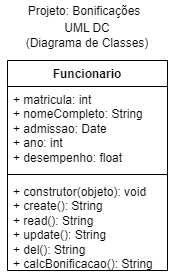
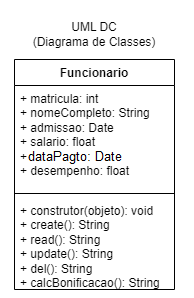
aula13

Changed region(s): [[0.0286, 0.0, 0.9714, 0.9855]]

diff --git a/2des/01-pwbe/aula13/README.md b/2des/01-pwbe/aula13/README.md
@@ -18,7 +18,7 @@
 |-|
 |Você foi contratado como Programador Back-End, por isso deve desenvolver a API com as funcionalidades documentadas, utilize os dados a seguir para testar sua aplicação através da ferramenta **Insomnia**|
 
-|Nome|Nascimento|peso|Altura|
+|Nome|Nascimento|Peso|Altura|
 |-|-|-|-|
 |Jair Rodrigues|1981-01-03|85.5|1.75|
 |Marieta Severo|1995-03-04|44.3|1.55|
@@ -28,4 +28,39 @@
 
 |Observações:|
 |-|
-|Dados calculados nem sempre precisam ser armazenados em bancos de dados:<br>- Podem ser calculados através de **visões**(Views) no SGBD e apenas exibidos os resultados,<br>- Podem ser calculados na API back-end através de métodos/funções:<br>&emsp;- Podem ser calculados quando os dados são listados um a um<br>&emsp;- Podem ser calculados quando os dados são todos de uma vez<br>&emsp;- Podem ser calculados quando os dados são cadastrados e armazenados no banco de dados<br>- Para cada problema devemos avaliar qual a melhor alternativa quanto a processamento e armazenamento|
+|Dados calculados nem sempre precisam ser armazenados em bancos de dados:<br>- Podem ser calculados através de **visões**(Views) no SGBD e apenas exibidos os resultados,<br>- Podem ser calculados na API back-end através de métodos/funções:<br>&emsp;- Podem ser calculados quando os dados são listados um a um<br>&emsp;- Podem ser calculados quando os dados são todos de uma vez<br>&emsp;- Podem ser calculados quando os dados são cadastrados e armazenados no banco de dados<br>- Para cada problema devemos avaliar qual a melhor alternativa quanto a processamento e armazenamento<br>**- Neste caso o Analista decidiu que os resultados dos cálculos não devem ser armazenados então calcule nos métodos da API ou em forma de VIEW no BD**|
+## 1 - Controle de bonificações
+
+|Contextualização:|
+|-|
+|Algumas empresas costumam pagar participações nos lucros ou resultados de acordo com a legislação trabalhista ou acordo sindical a qual pertencem, outras tratam apenas como benefício aos funcionários como insntivo ou agradecimento pelo serviço prestado. A empresa ACME Parafusos precisa de um sistema para cadastrar/registrar e calcular as bonificações pagas a seus funcionários|
+
+- O Analista de sistemas já realizou a **análise de requisitos** e documentou conforme diagramas a seguir:
+
+|Documento|Diagrama|
+|-|-|
+|DER Modelo Conceitual|![DER Modelo Conceitual](./imgs/der_bonus.png)|
+|UML - DC|![UML DC (Diagrama de Classes)](./imgs/uml_dc_bonus.png)|
+|UML - DCU|![UML DCU (Diagrama de Casos de Uso)](./imgs/uml_dcu_bonus.png)|
+
+|Desafio:|
+|-|
+|Você foi contratado como Programador Back-End, por isso deve desenvolver a API com as funcionalidades documentadas, **A bonificação é 2% do salário multiplicado pelo total de anos de trabalho vezes a nota do desempenho (de 0 a 10)** Ex: um funcionário que recebe 1000.00 de salário, trabalhou 3 anos e obteve 10 de desempenho receberá 600.00 de **bonificação**, utilize os dados a seguir para testar sua aplicação através da ferramenta **Insomnia**|
+
+|Nome|Admissão|Salario|Data do Pagamento|Desempenho|Bonificacao|
+|-|-|-|-|-|-|
+|José Rodrigues|2018-01-06|1300.00|CURDATE()|7|NULL|
+|Maria Severo|2018-03-04|2200.00|CURDATE()|10|NULL|
+|Silvia Silva|2019-05-20|3200.00|CURDATE()|10|NULL|
+|Solange Oliveira|2020-12-11|5500.00|CURDATE()|8.5|NULL|
+|Mariana Pontes|2021-12-13|2350.00|CURDATE()|6|NULL|
+
+|Observações:|
+|-|
+|Dados calculados nem sempre precisam ser armazenados em bancos de dados:<br>- Porém, neste caso a empresa precisa registrar o histórico de pagamentos e em alguns casos pode haver diferença entre o valor calculado e o valor realmente recebido pelo funcionário/colaborador então **o resultado deve ser armazenado no banco de dados**|
+
+|Entregas:|
+|-|
+|O professor disponibilizará uma pasta na rede para entregar o projeto|
+|Crie uma pasta com seu nome contendo:|
+|Uma pasta para cada projeto dividida em:<br>- Subpasta: **back** com os códigos<br>- Subpasta: **docs** com o script.sql e o arquivo do insomnia<br>- Não esqueça de excluir a pasta **node_modules** antes de entregar|
